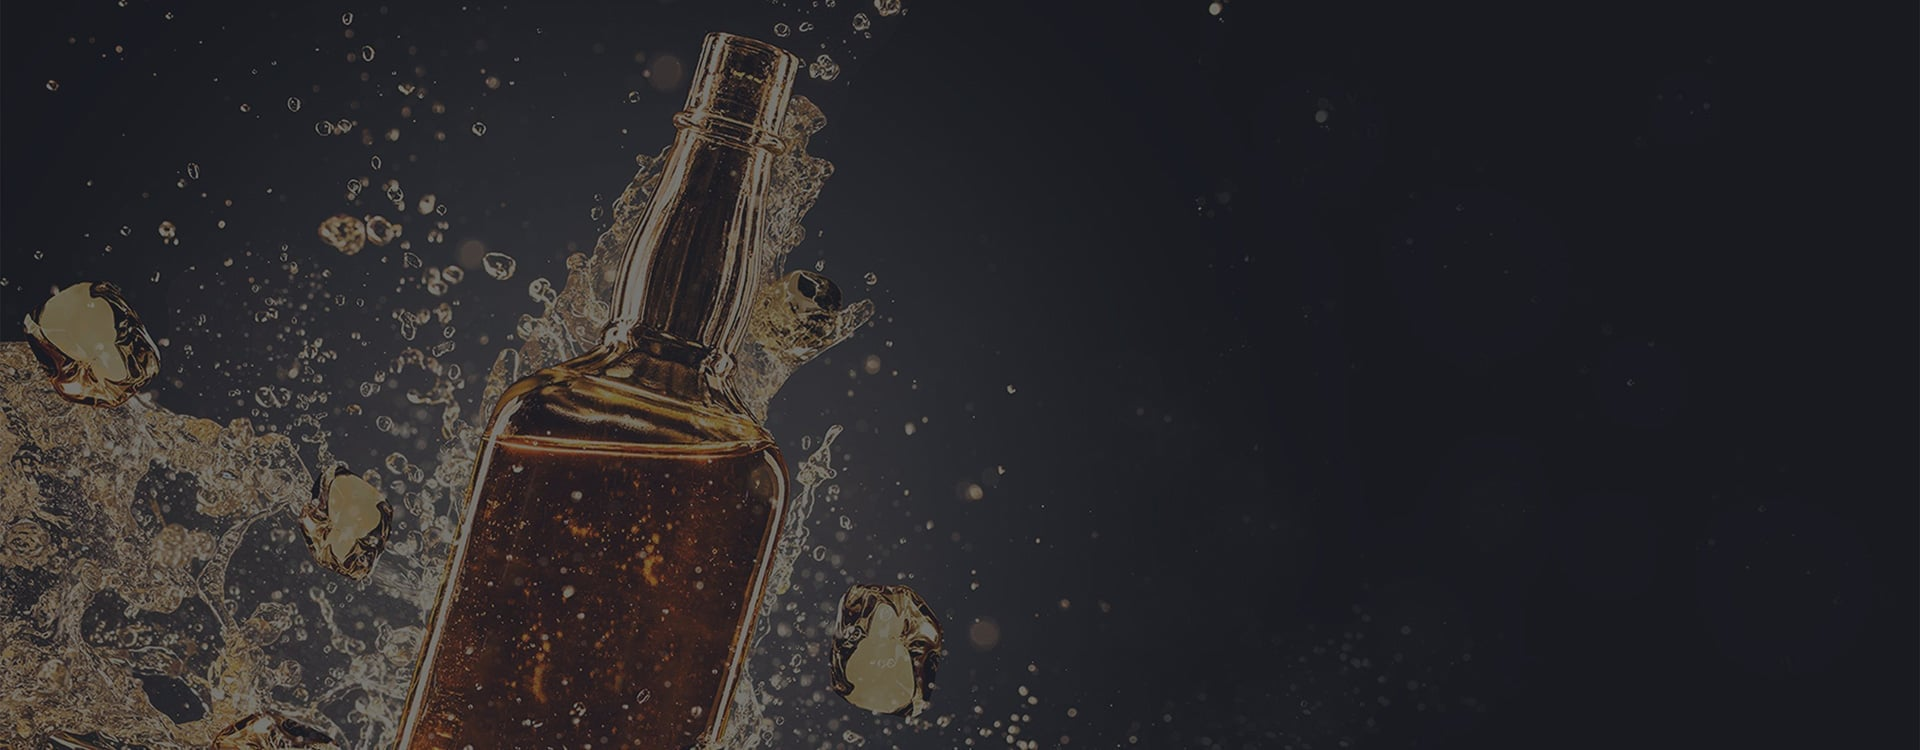
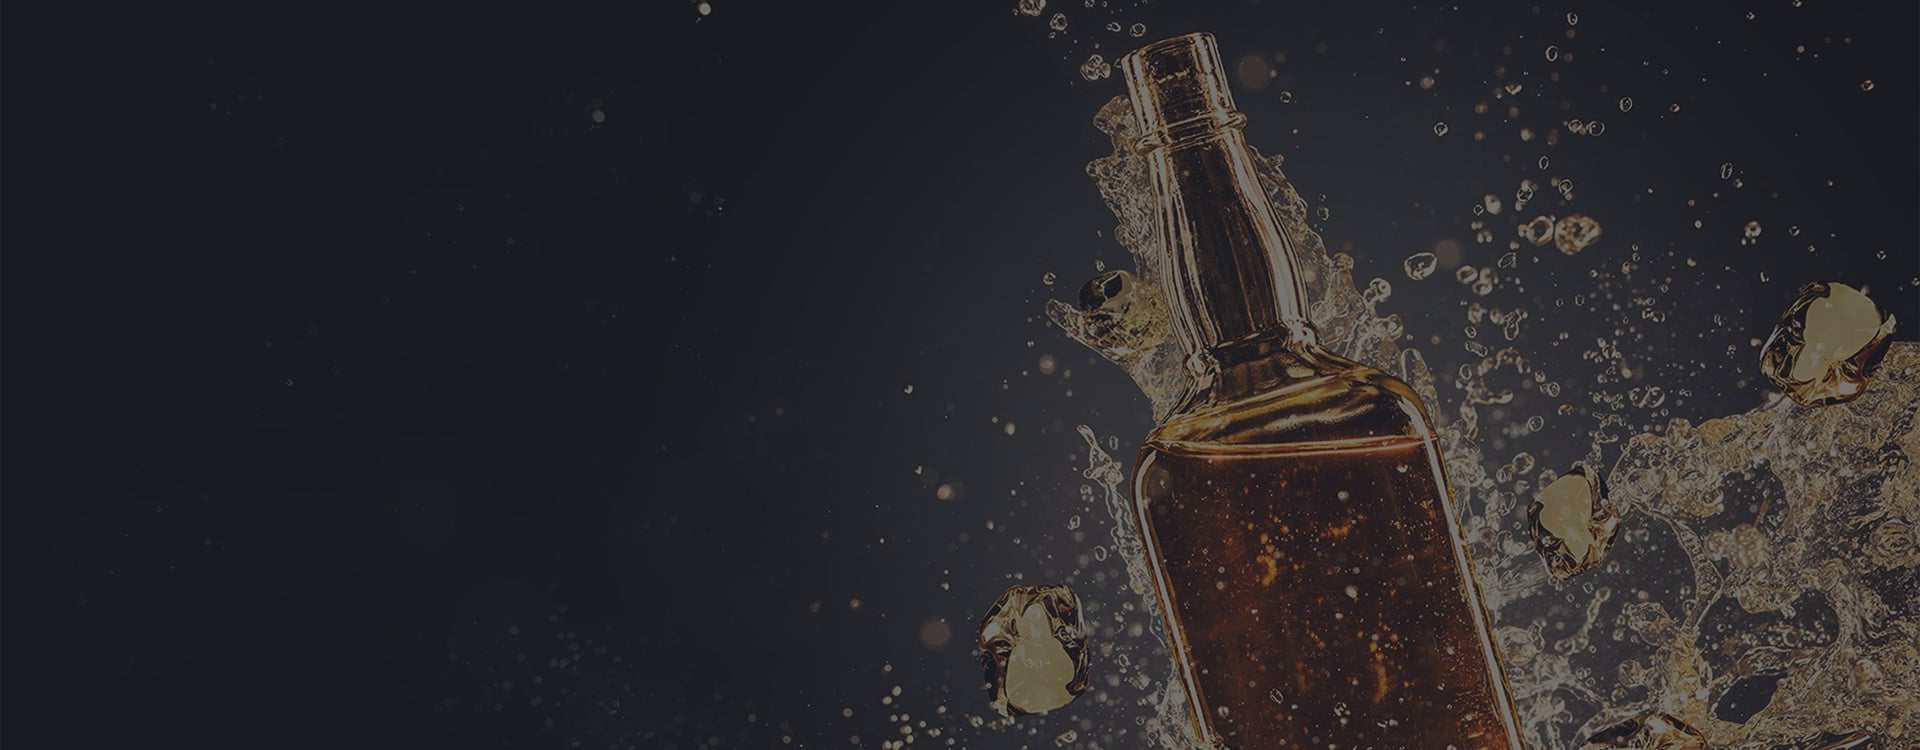
feat: hero second iteration, 1 draft

diff --git a/src/scenes/Homepage/Hero/hero.module.scss b/src/scenes/Homepage/Hero/hero.module.scss
@@ -8,7 +8,9 @@
 
   @include s.media-breakpoint-up(md) {
     //margin: 9vmax auto 0;
-    margin: 7rem auto 0;
+    margin: 0rem auto 0;
+
+    //border: 6px solid red;
 
   }
 
@@ -25,7 +27,7 @@
       //border: thick solid thistle;
 
       @include s.media-breakpoint-up(md) {
-        height: 44rem;
+        height: 45vmax;
 
       }
 
@@ -73,8 +75,6 @@
   }
 
 
-
-
   & :local {
 
     .text {
@@ -107,7 +107,7 @@
         line-height: 110%;
         margin: 0 0 1rem;
 
-        span{
+        span {
           display: block;
         }
       }
@@ -121,42 +121,35 @@
     }
 
 
-    .text[data-idx="0"]{
-      margin-left: auto;
-      color: black;
-      margin-right: 4vmax;
+    .text[data-idx="0"] {
+      //margin-left: auto;
+      //color: black;
+      //margin-right: 4vmax;
 
-      h1{
-        color: black;
-        span{
+      h1 {
+        color: white;
+
+        span {
           color: #f66628;
         }
       }
     }
 
-    .text[data-idx="1"]{
+    .text[data-idx="1"] {
       margin-right: auto;
       //color: black;
 
-      p{
+      p {
         //color: white;
       }
 
-      h1{
+      h1 {
         color: white;
-        span{
+
+        span {
           //color: #f66628;
         }
       }
-    }
-
-    .text[data-idx="2"]{
-      //margin-left: auto;
-      //margin-right: 4vmax;
-
-      //color: black;
-
-
     }
 
 

diff --git a/src/scenes/Homepage/Hero/index.tsx b/src/scenes/Homepage/Hero/index.tsx
@@ -103,18 +103,13 @@ const Hero = () => {
               data-idx={idx}
               variants={textContainerVariants}>
               <MotionConfig transition={textTransition}>
-                <motion.p variants={textItemVariants} custom={{ dir: selectedImg?.text?.dir}}>
-                  {selectedImg.text.subtitle}
-                </motion.p>
+                <motion.p variants={textItemVariants}>{selectedImg.text.subtitle}</motion.p>
                 <motion.h1
                   variants={textItemVariants}
-                  custom={{ dir: selectedImg?.text?.dir}}
                   dangerouslySetInnerHTML={{ __html: selectedImg.text.title }}
                 />
-                <motion.big variants={textItemVariants} custom={{ dir: selectedImg?.text?.dir}}>
-                  {selectedImg.text.desc}
-                </motion.big>
-                <motion.div variants={textItemVariants} custom={{ dir: selectedImg?.text?.dir}}>
+                <motion.big variants={textItemVariants}>{selectedImg.text.desc}</motion.big>
+                <motion.div variants={textItemVariants}>
                   <Link href={'/collections/all-products'}>
                     <a>
                       <Button variant="contained" size="large">

diff --git a/src/scenes/Homepage/Hero/resources.ts b/src/scenes/Homepage/Hero/resources.ts
@@ -1,6 +1,6 @@
 import { Transition, Variants } from 'framer-motion';
-import Img from '@/public/hero-slider/img_11.png';
-import Img2 from '@/public/hero-slider/img_12.png';
+import Img from '@/public/hero-slider/ex-img-13.png';
+import Img2 from '@/public/hero-slider/img_14.png';
 import Img4 from '@/public/hero-slider/img_7.png';
 
 export const images = [
@@ -10,7 +10,6 @@ export const images = [
       title: '<span>A COLD</span> DELIGHT',
       subtitle: 'Grab Chilled',
       desc: 'Let your emotions come out with whiskey in your hand, The taste makes you feel awesome',
-      dir: 'right',
     },
   },
   {
@@ -19,6 +18,7 @@ export const images = [
       title: 'COCKTAIL  <span style="color: #f66628" >GIFT SETS</span>',
       subtitle: 'Exclusive Offer',
       desc: '50% off all wine cocktail sets',
+      // dir: 'right',
     },
   },
   {

diff --git a/src/scenes/Homepage/OtherSaying/SayCard/index.tsx b/src/scenes/Homepage/OtherSaying/SayCard/index.tsx
@@ -24,9 +24,7 @@ const peoples = [
   },
   {
     img: Profile1,
-    txt:
-      'I like this a lot. It is mild but I am happy with it.' +
-      "  I don't like flavors that are overwhelming or are too strong. I will definitely be buying this again.",
+    txt: 'Someone got this for me when I was pregnant so I would not feel left out of the fun and I loved it. It’s so good! And I had really been missing wine. Now it’s my go to gift for all my friends and sometimes I drink it still just because I love the taste.',
     name: 'lsdj',
   },
   {
@@ -54,7 +52,6 @@ const SayCard = () => {
   const savedCallback = useRef<any>(() => null);
 
   function next() {
-
     const nxtIdx = idx + 1 <= peoples.length - 1 ? idx + 1 : 0;
     setActiveQuote(peoples[nxtIdx]);
     setIdx(nxtIdx);

diff --git a/src/components/common/FixedLayer/NavBar/navbar.module.scss b/src/components/common/FixedLayer/NavBar/navbar.module.scss
@@ -7,7 +7,9 @@
   display: flex;
   flex-flow: column;
   justify-content: space-between;
-  backdrop-filter: blur(35px);
+  //backdrop-filter: blur(35px);
+  color: white;
+
 
 
   //color: s.$clrs-orange;
@@ -21,7 +23,7 @@
     inset: 0;
     z-index: -1;
     opacity: .8;
-    background-image: linear-gradient(rgba(236, 233, 233, 0.73), rgba(237, 237, 237, 0));
+    //background-image: linear-gradient(rgba(236, 233, 233, 0.73), rgba(237, 237, 237, 0));
     //background-color: white;
   }
 

diff --git a/src/scenes/Homepage/index.tsx b/src/scenes/Homepage/index.tsx
@@ -38,12 +38,12 @@ const HomePage: React.FC<HomepageProps> = ({
       <Hero />
       <HorizontalMarquee />
       <GlassView />
-      <FeaturedCollection data={featuredCollections} />
+     {/* <FeaturedCollection data={featuredCollections} />
       <RareToFind data={rareToFind} />
       <Testimonials />
       <FeaturedProduct featuredProduct={featuredProduct} />
       <FeaturedGrid />
-      <OurBlog />
+      <OurBlog />*/}
     </MotionParent>
   );
 };

diff --git a/src/pages/index.tsx b/src/pages/index.tsx
@@ -6,11 +6,11 @@ import HomePage, { pageTransition } from '@/scenes/Homepage';
 export async function getStaticProps({ preview, locale, locales }: GetStaticPropsContext) {
   const config = { locale, locales };
 
- /* return {
+  return {
     props: {
 
     }
-  }*/
+  }
 
   const { product } = await commerce.getProduct({
     variables: { slug: 'don-julio-primavera-tequila' },
